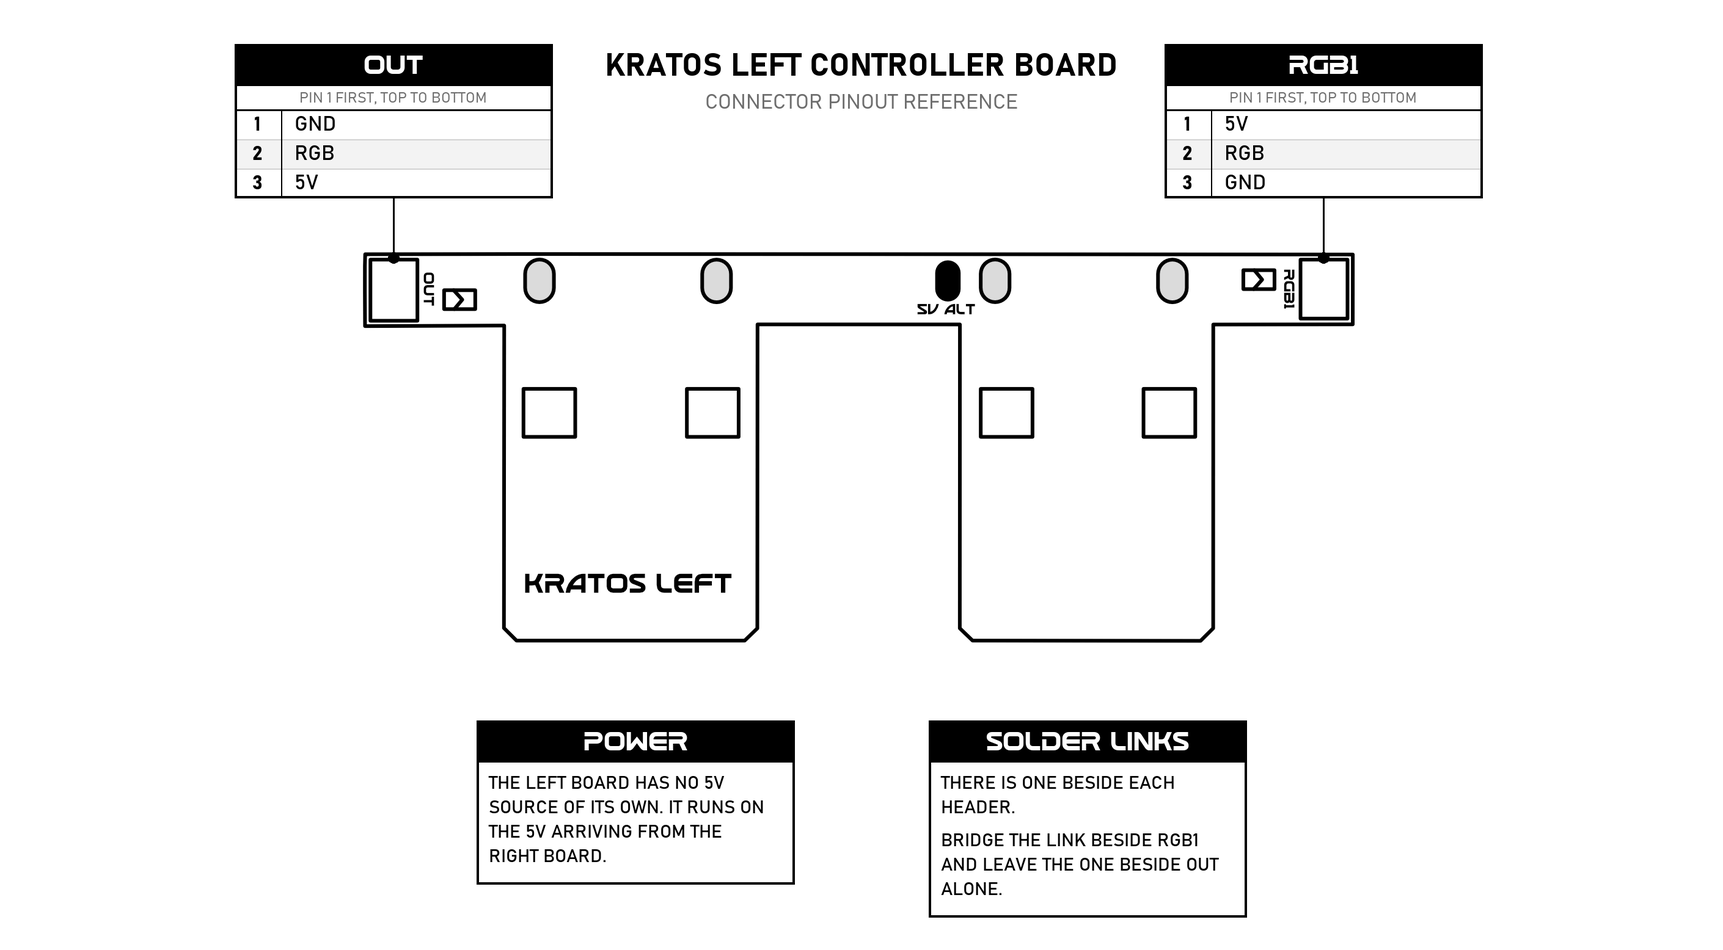
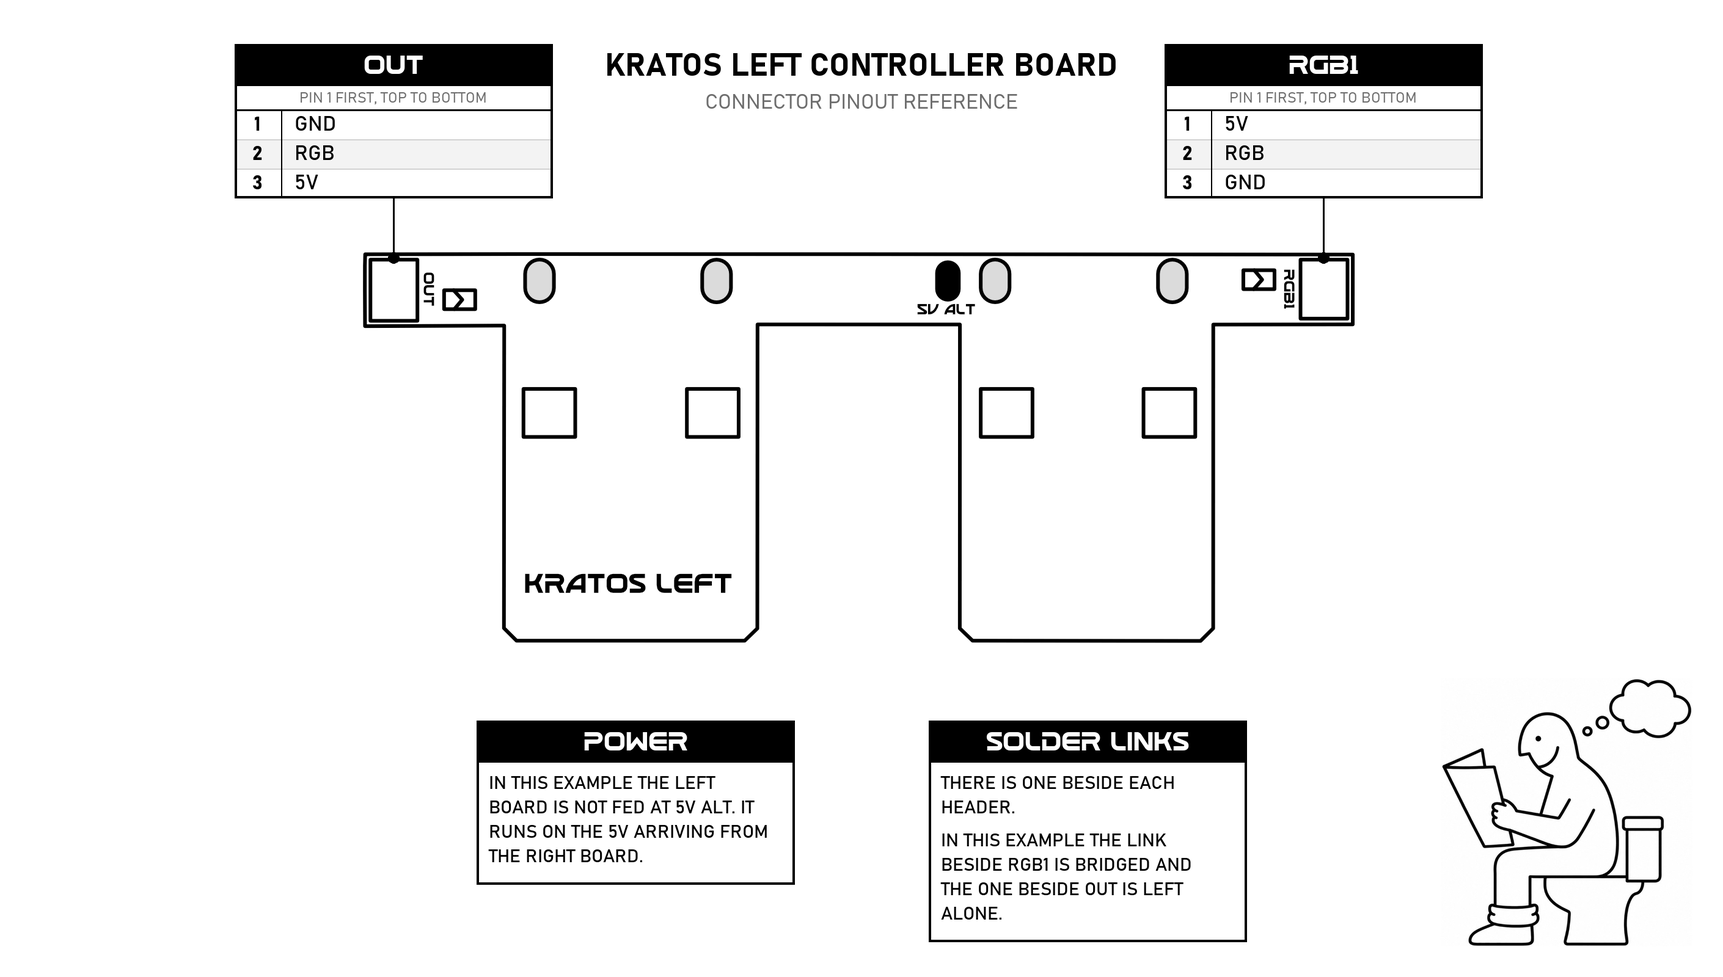
update

diff --git a/tools/generate-pinout.py b/tools/generate-pinout.py
@@ -17,7 +17,6 @@ from PIL import Image, ImageDraw, ImageFont
 
 ROOT = Path(__file__).resolve().parent.parent
 IMAGES = ROOT / "images" / "pinout"
-HELPER = IMAGES / "helper.png"
 
 FONT_PATH = "C:/Windows/Fonts/bahnschrift.ttf"
 FALLBACK_REGULAR = "C:/Windows/Fonts/arial.ttf"
@@ -48,7 +47,6 @@ NOTE_PAD = 20
 NOTE_LINE_H = 40
 CANVAS_BOTTOM_MARGIN = 54
 
-HELPER_H = 480
 HELPER_MARGIN = 50
 
 MAIN_BOARD = {
@@ -59,7 +57,7 @@ MAIN_BOARD = {
     "title_at": (1383, 108),
     "canvas": (2820, 1730),
     "origin": (120, 340),
-    "mascot": True,
+    "mascot": (IMAGES / "helper.png", 480),
     "connectors": {
         "ADDON2": (513, 54, 593, 174),
         "ADDON1": (513, 187, 593, 307),
@@ -73,7 +71,7 @@ MAIN_BOARD = {
         "ADDON1": ("TOP TO BOTTOM", ["IR / SDA", "BUZZER / SCL", "GND", "5V"]),
         "RGB1": ("LEFT TO RIGHT", ["5V", "RGB LEFT", "GND"]),
         "RGB2": ("LEFT TO RIGHT", ["5V", "RGB RIGHT", "GND"]),
-        "INPUT": ("TOP TO BOTTOM", ["SCL", "SDA", "5V (NOT USED)"]),
+        "INPUT": ("TOP TO BOTTOM", ["SCL", "SDA", "5V (SEE NOTE)"]),
         "FRONT PANEL": (
             "TOP TO BOTTOM",
             [
@@ -106,8 +104,8 @@ MAIN_BOARD = {
             [
                 "THE ESP32-S3 RUNS FROM A COMBINATION OF 5V, 5V STDBY AND USB-C.",
                 "THE 5V PIN ON ADDON1 IS A COMBINATION OF 5V AND 5V STDBY.",
-                "5V STDBY IS THE PAD ON THE BACK OF THE BOARD, USED TO KEEP KRATOS POWERED WITH THE CONSOLE OFF.",
-                "THE 5V PIN ON INPUT IS LEFT UNCONNECTED IN THIS INSTALL. THE CONTROLLER PORTS SUPPLY THE 5V.",
+                "5V STDBY IS THE PAD ON THE BACK OF THE BOARD. FEEDING IT KEEPS KRATOS POWERED WITH THE CONSOLE OFF, SO IT CAN POWER THE XBOX ON WIRELESSLY.",
+                "IN THIS EXAMPLE INSTALL THE 5V PIN ON INPUT IS NOT CONNECTED. IT IS THERE FOR FEEDING 5V STRAIGHT INTO THE MAIN BOARD FROM AN ALWAYS-ON SOURCE.",
             ],
             (1180, 1260),
         )
@@ -122,7 +120,7 @@ CONTROLLER_CONNECTORS = {
     "left_header": (223, 82, 305, 187),
     "right_header": (1746, 82, 1827, 184),
 }
-CONTROLLER_CANVAS = (2820, 1520)
+CONTROLLER_CANVAS = (2820, 1600)
 CONTROLLER_ORIGIN = (380, 340)
 # Two notes side by side, centred as a pair under the board.
 CONTROLLER_NOTE_LEFT_AT = (780, 1180)
@@ -135,8 +133,11 @@ RIGHT_CORNER_BOX = ("bottom_left", 1906, 324)
 CORNER_PINS_LEFT = ("TOP TO BOTTOM", ["GND", "RGB", "5V"])
 CORNER_PINS_RIGHT = ("TOP TO BOTTOM", ["5V", "RGB", "GND"])
 
+LEFT_MASCOT = (IMAGES / "helper-toilet.png", 440)
+RIGHT_MASCOT = (IMAGES / "helper-book.png", 520)
 
-def controller_board(side, input_header, supply_note, link_note):
+
+def controller_board(side, input_header, mascot, supply_note, link_note):
     """Build a controller board spec. `input_header` is RGB1 or RGB2."""
     input_on_left = side == "RIGHT"
     return {
@@ -148,6 +149,7 @@ def controller_board(side, input_header, supply_note, link_note):
         "title_at": (1410, 108),
         "canvas": CONTROLLER_CANVAS,
         "origin": CONTROLLER_ORIGIN,
+        "mascot": mascot,
         "connectors": {
             input_header: CONTROLLER_CONNECTORS[
                 "left_header" if input_on_left else "right_header"
@@ -180,20 +182,26 @@ def controller_board(side, input_header, supply_note, link_note):
 LEFT_BOARD = controller_board(
     "LEFT",
     "RGB1",
-    ["THE LEFT BOARD HAS NO 5V SOURCE OF ITS OWN. IT RUNS ON THE 5V ARRIVING FROM THE RIGHT BOARD."],
+    LEFT_MASCOT,
+    [
+        "IN THIS EXAMPLE THE LEFT BOARD IS NOT FED AT 5V ALT. IT RUNS ON THE 5V ARRIVING FROM THE RIGHT BOARD."
+    ],
     [
         "THERE IS ONE BESIDE EACH HEADER.",
-        "BRIDGE THE LINK BESIDE RGB1 AND LEAVE THE ONE BESIDE OUT ALONE.",
+        "IN THIS EXAMPLE THE LINK BESIDE RGB1 IS BRIDGED AND THE ONE BESIDE OUT IS LEFT ALONE.",
     ],
 )
 
 RIGHT_BOARD = controller_board(
     "RIGHT",
     "RGB2",
-    ["SOLDER THE 5V FEED FROM THE PORT 4 CONTROLLER PORT BOARD TO THE 5V ALT PAD."],
+    RIGHT_MASCOT,
+    [
+        "IN THIS EXAMPLE THE 5V FEED FROM THE PORT 4 CONTROLLER PORT BOARD IS SOLDERED TO THE 5V ALT PAD."
+    ],
     [
         "THERE IS ONE BESIDE EACH HEADER.",
-        "BRIDGE THE LINK BESIDE RGB2 AND LEAVE THE ONE BESIDE OUT ALONE.",
+        "IN THIS EXAMPLE THE LINK BESIDE RGB2 IS BRIDGED AND THE ONE BESIDE OUT IS LEFT ALONE.",
     ],
 )
 
@@ -247,9 +255,9 @@ def draw_text_centred(draw, centre, text, font, fill):
     )
 
 
-def is_unused(pin):
-    """Pins with nothing on them are greyed so the live ones stand out."""
-    return pin == "NOT CONNECTED" or pin.endswith("(NOT USED)")
+def is_muted(pin):
+    """Pins carrying nothing in this install are greyed so the live ones stand out."""
+    return pin == "NOT CONNECTED" or pin.endswith("(SEE NOTE)")
 
 
 def box_height(pin_count):
@@ -352,7 +360,7 @@ def draw_callout(draw, board, name, fonts):
             (divider_x + 22, y + ROW_H // 2),
             pin,
             font=fonts["pin"],
-            fill=GREY if is_unused(pin) else BLACK,
+            fill=GREY if is_muted(pin) else BLACK,
             anchor="lm",
         )
 
@@ -403,17 +411,25 @@ def draw_note(draw, note, fonts):
     draw.rectangle((left, top, right, bottom), outline=BLACK, width=BORDER)
 
 
-def paste_helper(canvas):
+def paste_helper(canvas, mascot):
     """Drop the manual's mascot into the empty bottom-right corner."""
-    art = Image.open(HELPER).convert("L")
-    width = round(art.width * HELPER_H / art.height)
-    art = art.resize((width, HELPER_H), Image.LANCZOS)
-    # The source art is small, so scaling up softens its outlines. Pulling the
-    # midtones apart again restores a crisp edge without going fully jagged.
-    art = art.point([0 if v < 100 else 255 if v > 180 else round((v - 100) * 255 / 80) for v in range(256)])
+    source, height = mascot
+    art = Image.open(source).convert("L")
+    # Trim the white margin so mascots drawn on different canvases still come
+    # out the same size on the sheet.
+    art = art.crop(art.point(lambda v: 255 if v < 250 else 0).getbbox())
+    width = round(art.width * height / art.height)
+    scale = height / art.height
+    art = art.resize((width, height), Image.LANCZOS)
+    if scale > 1:
+        # Enlarging softens the outlines. Pulling the midtones apart again
+        # restores a crisp edge without going fully jagged.
+        art = art.point(
+            [0 if v < 100 else 255 if v > 180 else round((v - 100) * 255 / 80) for v in range(256)]
+        )
     canvas.paste(
         art.convert("RGB"),
-        (canvas.width - HELPER_MARGIN - width, canvas.height - HELPER_MARGIN - HELPER_H),
+        (canvas.width - HELPER_MARGIN - width, canvas.height - HELPER_MARGIN - height),
     )
 
 
@@ -460,7 +476,7 @@ def render(board, fonts):
     for note in board.get("notes", ()):
         draw_note(draw, note, fonts)
     if board.get("mascot"):
-        paste_helper(canvas)
+        paste_helper(canvas, board["mascot"])
 
     # Line art with antialiasing needs only a handful of greys, so a palette
     # image keeps the file small without any visible loss.

diff --git a/reference-pinout.md b/reference-pinout.md
@@ -2,6 +2,8 @@
 
 A reference for the connectors and buttons on the Kratos boards. The installation parts tell you what to plug in and when - this page is here for when you want to identify something on a board itself. Click any diagram for a full-size version.
 
+Where a pin or pad is described as connected or left alone, that is what the example install in this guide does with it - Kratos can be wired up other ways, particularly where its 5V comes from.
+
 Left and right are as you face the front of the console, the same convention used in [Part 4](hardware-4-preparing-the-controller-ports.md).
 
 ## Kratos Main Board
@@ -11,7 +13,7 @@ Left and right are as you face the front of the console, the same convention use
 ### Connectors
 
 - **FRONT PANEL** - The 9-pin header for the console's front panel cable. The connector is salvaged from the original front panel board and soldered on in [Part 5](hardware-5-preparing-the-kratos-main-board.md).
-- **INPUT** - The 3-pin header carrying the SMBus lines and 5V. Only the two SMBus lines are used in this guide - they are wired to the console's SMBus in [Part 7](hardware-7-connecting-kratos-to-the-smbus.md). The 5V pin is left unconnected - the controller ports are what supply Kratos with 5V, so the harness has its 5V wire removed in [Part 5](hardware-5-preparing-the-kratos-main-board.md).
+- **INPUT** - The 3-pin header carrying the SMBus lines and 5V. The two SMBus lines are wired to the console's SMBus in [Part 7](hardware-7-connecting-kratos-to-the-smbus.md). The 5V pin is not connected in this install example, so the harness has its 5V wire removed in [Part 5](hardware-5-preparing-the-kratos-main-board.md).
 - **RGB1** and **RGB2** - The two 3-pin JST headers for the Controller Board Connection Cables, one per Kratos Controller Board. The connectors are keyed, so they only go in one way. Fitting these is covered in [Part 5](hardware-5-preparing-the-kratos-main-board.md).
 - **ADDON1** and **ADDON2** - Expansion headers. Nothing in the standard kit plugs into these.
 
@@ -26,9 +28,9 @@ The 5V pins in the diagram are not all fed from the same place:
 
 - The ESP32-S3 runs from a combination of **5V**, **5V STDBY** and USB-C.
 - The 5V pin on **ADDON1** is a combination of **5V** and **5V STDBY**.
-- The 5V pin on **INPUT** is not connected in this install, and the wire for it is removed from the harness in [Part 5](hardware-5-preparing-the-kratos-main-board.md). Kratos takes its 5V from the controller ports, soldered to the **5V ALT** pad on the right Controller Board in [Part 4](hardware-4-preparing-the-controller-ports.md).
+- The 5V pin on **INPUT** is not connected in this install example. It is otherwise a way in for 5V from an always-on source - the same sort of feed used for port 4, taken to the Kratos Main Board instead.
 
-**5V STDBY** is the pad on the back of the board. Feeding it from an always-on source is what keeps Kratos powered while the console is off - required on a 1.6 console ([Part 6b](hardware-6b-refitting-the-front-panel-1-6.md)) and optional on 1.0 to 1.5 ([Part 6a](hardware-6a-refitting-the-front-panel-1-0-1-5.md)).
+**5V STDBY** is the pad on the back of the board. Feeding it from an always-on source keeps Kratos powered while the console is off, which is what lets it power the Xbox on wirelessly, so it is only needed if you want that. Where the 5V comes from depends on the console: a 1.6 has an always-on supply on the motherboard to take it from ([Part 6b](hardware-6b-refitting-the-front-panel-1-6.md)), while 1.0 to 1.5 have none, so you supply your own or leave USB-C connected ([Part 6a](hardware-6a-refitting-the-front-panel-1-0-1-5.md)).
 
 ### Other Points of Interest
 
@@ -40,8 +42,8 @@ The 5V pins in the diagram are not all fed from the same place:
 
 - **RGB1** - Takes the Controller Board Connection Cable from **RGB1** on the main board, plugged in during [Part 5](hardware-5-preparing-the-kratos-main-board.md).
 - **OUT** - The pass-through header, carrying 5V, RGB and GND on from this board. How much you can hang off it depends on how many LEDs you are driving - a larger external string may need its own 5V source rather than taking power from here.
-- **5V ALT** - A pad for feeding in 5V from the controller ports. Only the right board uses it - the left board has no 5V source of its own and runs on the 5V arriving from the right board.
-- **Solder links** - There is one beside each header. Bridge the one beside **RGB1** and leave the one beside **OUT** alone.
+- **5V ALT** - A pad for feeding in 5V from the controller ports. Not used in this installation example.
+- **Solder links** - There is one beside each header. In this example the link beside **RGB1** is bridged and the one beside **OUT** is left alone.
 
 ## Kratos Right Controller Board
 
@@ -49,8 +51,8 @@ The 5V pins in the diagram are not all fed from the same place:
 
 - **RGB2** - Takes the Controller Board Connection Cable from **RGB2** on the main board, plugged in during [Part 5](hardware-5-preparing-the-kratos-main-board.md).
 - **OUT** - The pass-through header, carrying 5V, RGB and GND on from this board. How much you can hang off it depends on how many LEDs you are driving - a larger external string may need its own 5V source rather than taking power from here.
-- **5V ALT** - Where the 5V wire from the port 4 controller port board is soldered, as covered in [Part 4](hardware-4-preparing-the-controller-ports.md).
-- **Solder links** - There is one beside each header. Bridge the one beside **RGB2** and leave the one beside **OUT** alone.
+- **5V ALT** - Where the 5V wire from the port 4 controller port board is soldered in this example, as covered in [Part 4](hardware-4-preparing-the-controller-ports.md).
+- **Solder links** - There is one beside each header. In this example the link beside **RGB2** is bridged and the one beside **OUT** is left alone.
 
 ---
 

diff --git a/hardware-4-preparing-the-controller-ports.md b/hardware-4-preparing-the-controller-ports.md
@@ -38,7 +38,7 @@ With the shielding removed, the controller ports should look like this:
 
 **Note:** Left and right are as you face the front of the console. Working from behind, as you will be here, the right-hand board is the one on your left.
 
-1. Bridge the solder link beside **RGB1** on the board, leaving the link beside **OUT** alone - see the [Pinout Reference](reference-pinout.md) if you are unsure which is which
+1. Bridge the solder link beside **RGB1** on the board, leaving the link beside **OUT** alone - this is what taking 5V in at the controller ports calls for, and the [Pinout Reference](reference-pinout.md) shows which link is which
 2. Slide the Kratos left Controller Board into place behind the controller ports
 3. Refit the controller port assemblies and secure them with the four screws removed in Step 1
 4. Reconnect the controller port wire harnesses
@@ -48,10 +48,10 @@ With the shielding removed, the controller ports should look like this:
 
 ## Step 5: Fit the Right Controller Board
 
-The right-hand board needs a 5V feed wired in before it goes in place.
+In this install the right-hand board is the one that brings 5V in, so it gets a feed wired to it before it goes in place. As covered in [Part 1](hardware-1-before-you-start.md), the 5V is taken from the controller ports because that supply is fused on the Xbox.
 
 1. Solder a wire from the red 5V pad on the port 4 controller port board to the pad marked **5V ALT** on the Kratos right Controller Board
-2. Bridge the solder link beside **RGB2** on the same board, leaving the link beside **OUT** alone - see the [Pinout Reference](reference-pinout.md) if you are unsure which is which
+2. Bridge the solder link beside **RGB2** on the same board, leaving the link beside **OUT** alone - the same pairing as the left board, and the [Pinout Reference](reference-pinout.md) shows which link is which
 3. Slide the board into place behind the controller ports
 4. Refit the controller port assemblies and secure them with their screws
 5. Reconnect the controller port wire harnesses

diff --git a/hardware-6b-refitting-the-front-panel-1-6.md b/hardware-6b-refitting-the-front-panel-1-6.md
@@ -1,8 +1,8 @@
 # Part 6b: Refitting the Front Panel - Xbox 1.6
 
-Continuing from Step 1 in [Part 6](hardware-6-refitting-the-front-panel.md), this is the 5V standby wiring for revision 1.6 consoles.
+Continuing from Step 1 in [Part 6](hardware-6-refitting-the-front-panel.md), these are the remaining steps for a revision 1.6 console. Steps 2 and 5 cover the 5V standby wire, which is what you want if Kratos is to power the Xbox on wirelessly - a 1.6 has an always-on 5V supply on the motherboard to take it from. Leave them out if you would rather not fit it.
 
-## Step 2: Solder the 5V Standby Wire
+## Step 2 (Optional): Solder the 5V Standby Wire
 
 Solder a 30cm length of wire to the **5V STDBY** pad on the back of the Kratos Main Board, arrowed below. The generous length leaves enough slack to reach its connection point later.
 
@@ -10,7 +10,7 @@ Solder a 30cm length of wire to the **5V STDBY** pad on the back of the Kratos M
 
 ## Step 3: Route the Left Controller Port Cable and 5V Standby Wire
 
-Feed the left controller port cable through the rectangular hole in the shielding at the front left, and the 5V standby wire through the square hole.
+Feed the left controller port cable through the rectangular hole in the shielding at the front left, and the 5V standby wire, if you fitted one, through the square hole.
 
 [![The left controller port cable routed through the rectangular shielding hole](images/refit6b/step3.jpg)](images/refit6b/step3.jpg)
 
@@ -18,7 +18,7 @@ Feed the left controller port cable through the rectangular hole in the shieldin
 
 With everything routed and nothing trapped, line the front panel up with the console and clip it back into place - the three tabs along the bottom locate first, then the panel presses home.
 
-## Step 5: Connect the 5V Standby Wire
+## Step 5 (Optional): Connect the 5V Standby Wire
 
 With the panel in place, the standby wire can be run to the motherboard and cut to fit.
 

diff --git a/hardware-5-preparing-the-kratos-main-board.md b/hardware-5-preparing-the-kratos-main-board.md
@@ -50,9 +50,9 @@ With the connector fitted and cleaned up, the Kratos Main Board should look like
 
 The SMBus harness is the single-ended 3-wire JST lead - a connector on one end, bare wires on the other. It plugs into the header marked **INPUT**, and its two SMBus wires are soldered to the console's SMBus later in [Part 7](hardware-7-connecting-kratos-to-the-smbus.md).
 
-**Remove the 5V wire from the harness before you plug it in.** In this install Kratos is powered from the controller ports, wired up in [Part 4](hardware-4-preparing-the-controller-ports.md), so nothing should be connected to the 5V pin on **INPUT**. Leaving the wire on the harness leaves a bare end loose inside the console next to the SMBus joints, which is not worth the risk.
+Kratos is powered from the controller ports in this install, wired up in [Part 4](hardware-4-preparing-the-controller-ports.md), so the harness only needs its two SMBus wires. That leaves the third one, on the 5V pin, with nothing to do, and it is worth taking off rather than leaving a bare end loose inside the console.
 
-The **INPUT** header is SCL, SDA, then 5V, so the 5V wire is the one on the end - check it against the [Pinout Reference](reference-pinout.md) before you touch anything. To take it out, lift the small retention tab inside the connector housing with a fine pick and slide the contact out. If you would rather not disturb the housing, cut the wire off flush at the connector and insulate the stub instead.
+The **INPUT** header is SCL, SDA, then 5V, so the 5V wire is the one on the end - check it against the [Pinout Reference](reference-pinout.md) first. To take it out, lift the small retention tab inside the connector housing with a fine pick and slide the contact out. If you would rather not disturb the housing, cut the wire off flush at the connector and insulate the stub instead.
 
 ## Step 6: Connect the Cables and Clip the Board In
 

diff --git a/hardware-installation.md b/hardware-installation.md
@@ -29,7 +29,7 @@ The hardware installation is split into the following parts. Work through them i
 5. **[Part 5: Preparing the Kratos Main Board](hardware-5-preparing-the-kratos-main-board.md)** - Transfer the 9-pin connector from the original board to the Kratos Main Board, then fit the cables
 6. **[Part 6: Refitting the Front Panel](hardware-6-refitting-the-front-panel.md)** - Route the cables and clip the front panel back onto the console
    - **[Part 6a: Xbox 1.0 to 1.5](hardware-6a-refitting-the-front-panel-1-0-1-5.md)** - Route the cable and clip the panel on, plus optional standby power for wireless power-on
-   - **[Part 6b: Xbox 1.6](hardware-6b-refitting-the-front-panel-1-6.md)** - 5V standby wiring for 1.6 consoles
+   - **[Part 6b: Xbox 1.6](hardware-6b-refitting-the-front-panel-1-6.md)** - Optional 5V standby wiring for wireless power-on, from the console's own always-on supply
 7. **[Part 7: Connecting Kratos to the SMBus](hardware-7-connecting-kratos-to-the-smbus.md)** - Wire the SDA and SCL lines to the console's SMBus
 8. **[Part 8: Reassembly](hardware-8-reassembly.md)** - Put the console back together
 

diff --git a/hardware-7-connecting-kratos-to-the-smbus.md b/hardware-7-connecting-kratos-to-the-smbus.md
@@ -1,6 +1,6 @@
 # Part 7: Connecting Kratos to the SMBus
 
-Kratos talks to the console over the SMBus. The wire coming from the Kratos **INPUT** harness carries the two SMBus lines: connect its SDA wire to the console's SMBus SDA, and its SCL wire to the console's SMBus SCL. Those are the only two wires it should have on it - its 5V wire was removed back in [Part 5](hardware-5-preparing-the-kratos-main-board.md), as Kratos is powered from the controller ports instead.
+Kratos talks to the console over the SMBus. The wire coming from the Kratos **INPUT** harness carries the two SMBus lines: connect its SDA wire to the console's SMBus SDA, and its SCL wire to the console's SMBus SCL. Its 5V wire came off back in [Part 5](hardware-5-preparing-the-kratos-main-board.md), as Kratos is powered from the controller ports in this install.
 
 There are two places to pick the SMBus up. Either works, so use whichever is easier to reach in your console.
 

diff --git a/hardware-6-refitting-the-front-panel.md b/hardware-6-refitting-the-front-panel.md
@@ -10,7 +10,7 @@ Feed three cables through the oblong hole in the chassis: the right-hand RGB cab
 
 ## Now Pick Your Console Revision
 
-The remaining steps differ depending on your console revision - 1.6 consoles need a 5V standby wire, earlier ones do not. Follow the one that matches your console, then carry on to Part 7.
+The remaining steps differ depending on your console revision. Both cover the same optional job - giving Kratos a 5V standby feed so it stays awake with the Xbox off and can power the console on wirelessly - but where that 5V comes from is not the same. A 1.6 has an always-on supply on the motherboard, earlier consoles have none. Follow the one that matches your console, then carry on to Part 7.
 
 - **[Part 6a: Xbox 1.0 to 1.5](hardware-6a-refitting-the-front-panel-1-0-1-5.md)**
 - **[Part 6b: Xbox 1.6](hardware-6b-refitting-the-front-panel-1-6.md)**

diff --git a/hardware-6a-refitting-the-front-panel-1-0-1-5.md b/hardware-6a-refitting-the-front-panel-1-0-1-5.md
@@ -1,6 +1,6 @@
 # Part 6a: Refitting the Front Panel - Xbox 1.0 to 1.5
 
-Continuing from Step 1 in [Part 6](hardware-6-refitting-the-front-panel.md), these are the remaining steps for consoles from revision 1.0 to 1.5. Unlike a 1.6, these consoles do not need a 5V standby wire for Kratos to work, though Step 2 covers an optional feed worth fitting.
+Continuing from Step 1 in [Part 6](hardware-6-refitting-the-front-panel.md), these are the remaining steps for consoles from revision 1.0 to 1.5. Step 2 covers the standby feed, which is what you want if Kratos is to power the Xbox on wirelessly. Unlike a 1.6, these consoles have no always-on 5V supply to take it from, so it has to come from elsewhere.
 
 ## Step 2 (Optional): Keep Kratos Powered While the Xbox Is Off
 

diff --git a/hardware-8-reassembly.md b/hardware-8-reassembly.md
@@ -8,7 +8,7 @@ Work around everything you have connected and make sure none of it is loose or t
 
 - The 9-pin front panel cable into the motherboard header
 - The RGB cables between the Kratos Main Board and each Controller Board
-- The 5V standby wire
+- The 5V standby wire, if you fitted one
 - The SMBus SDA and SCL wires
 
 ## Step 2: Power Up and Check the Front Panel
